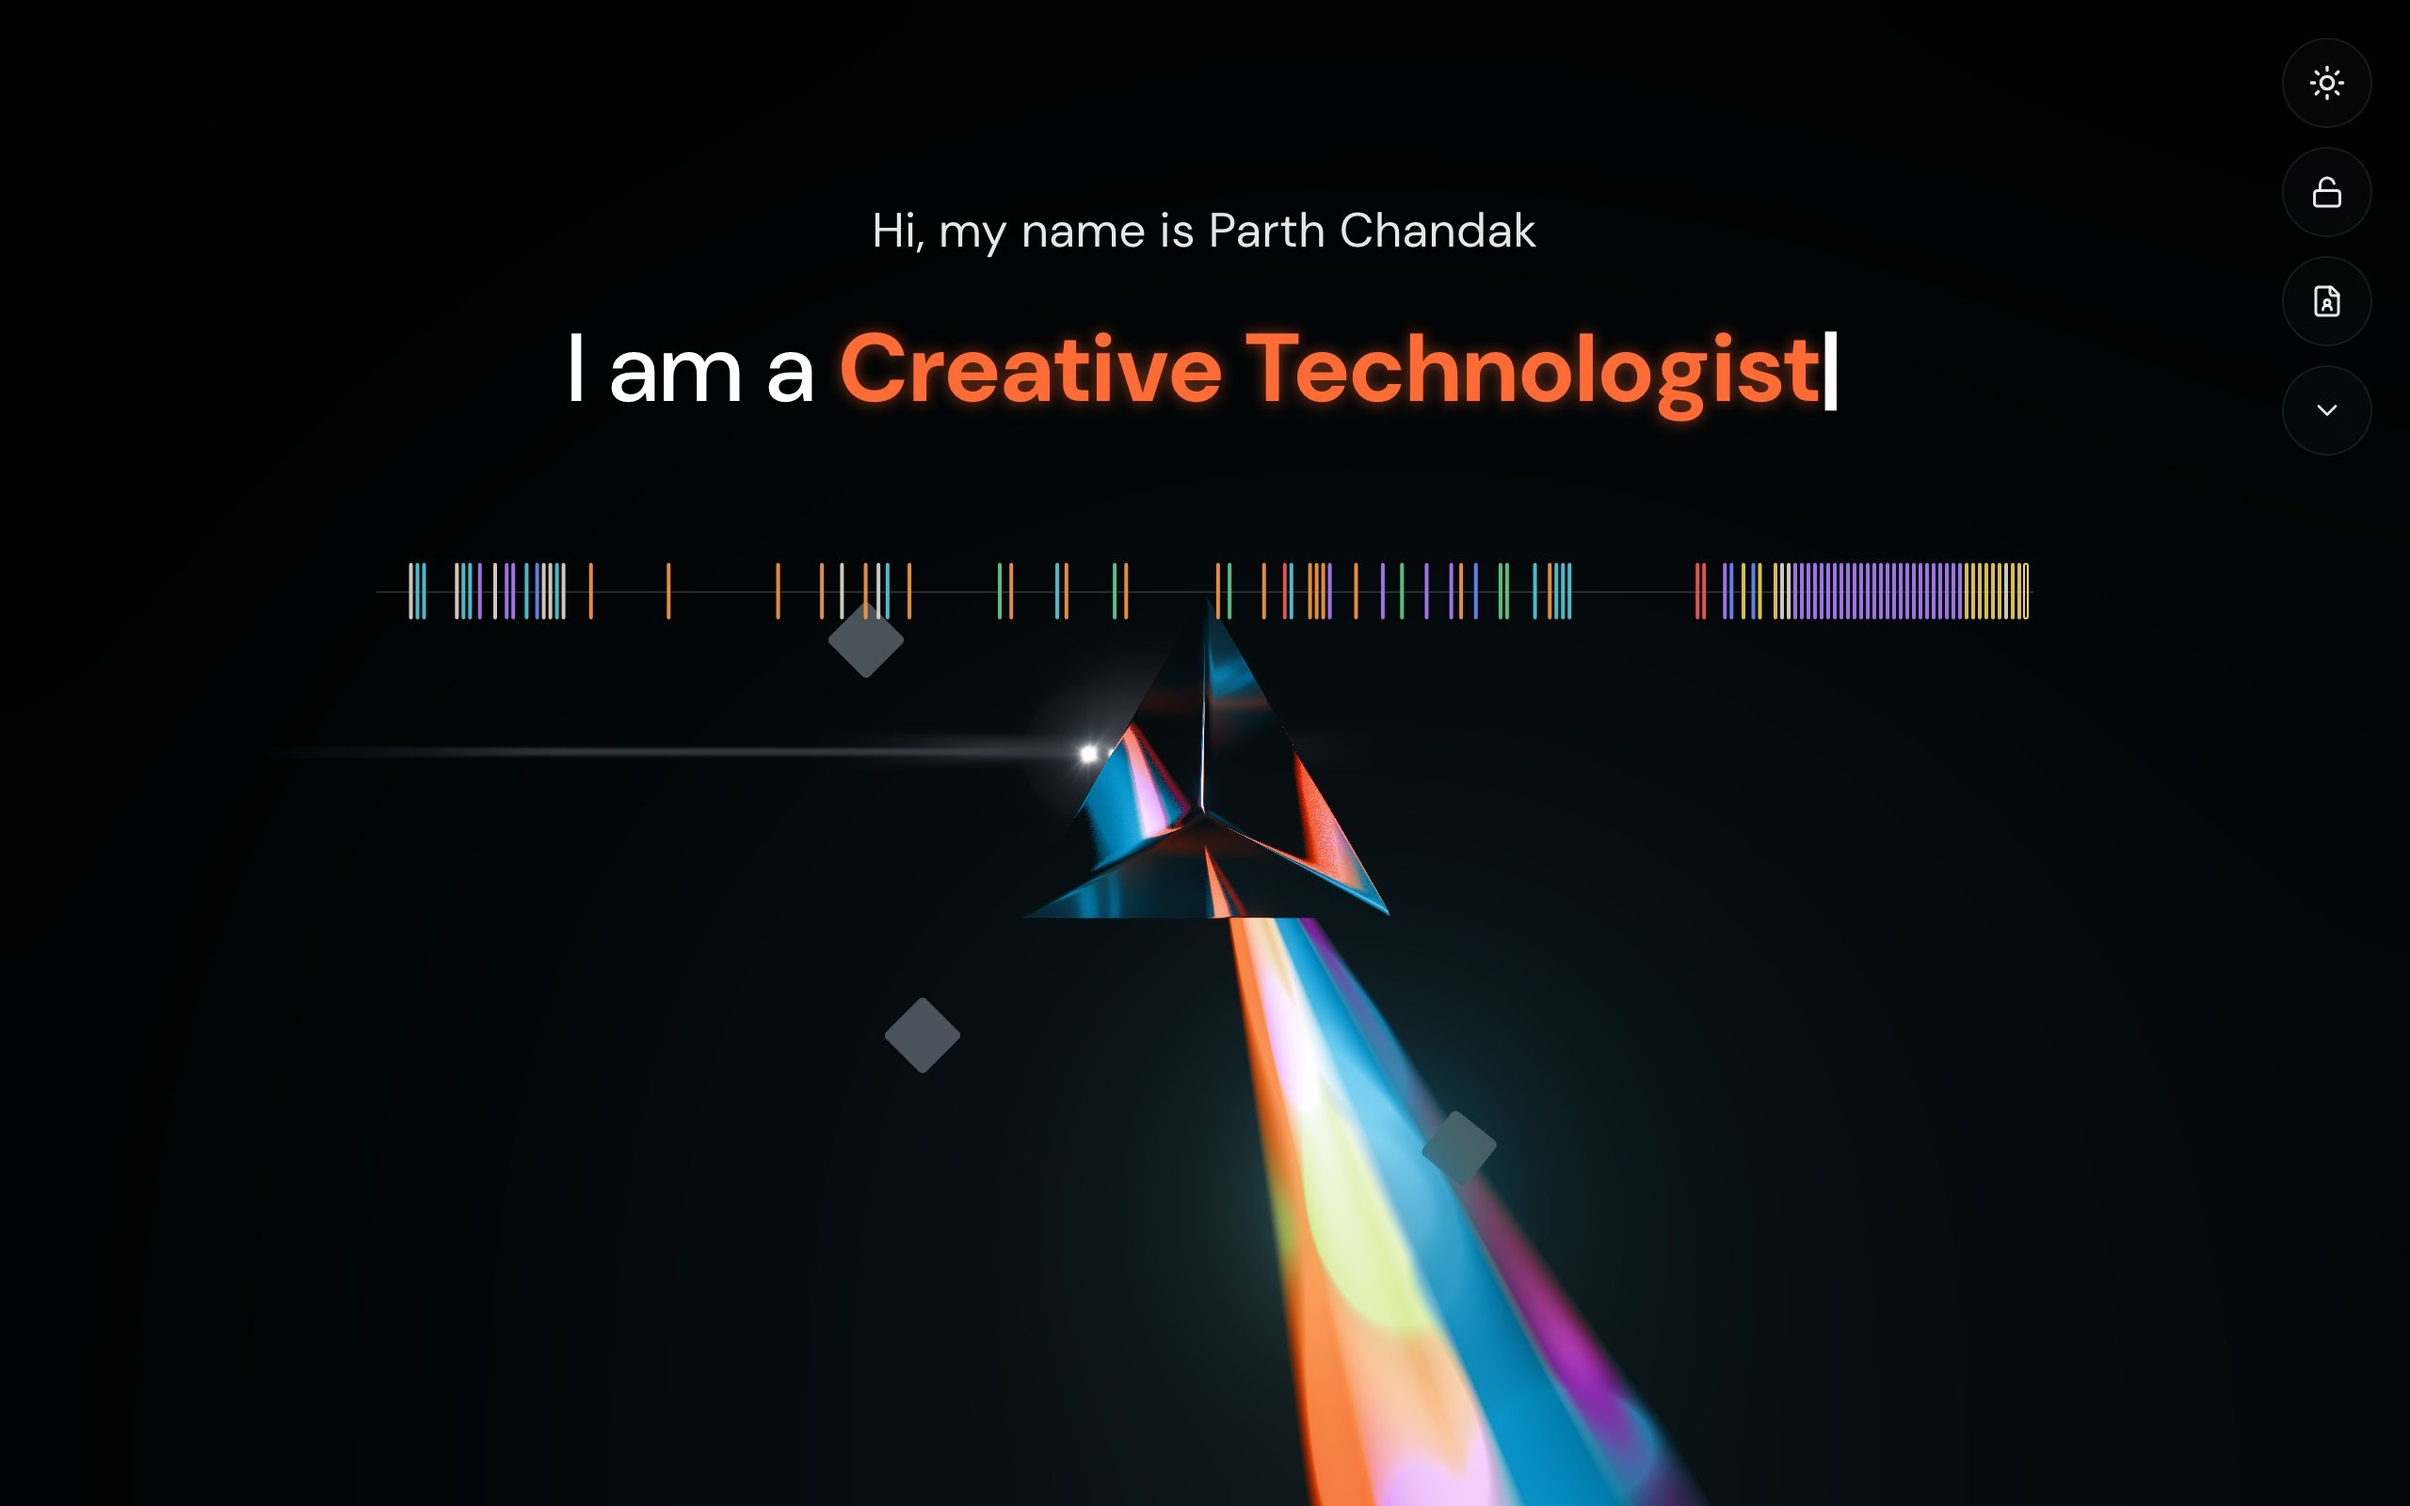
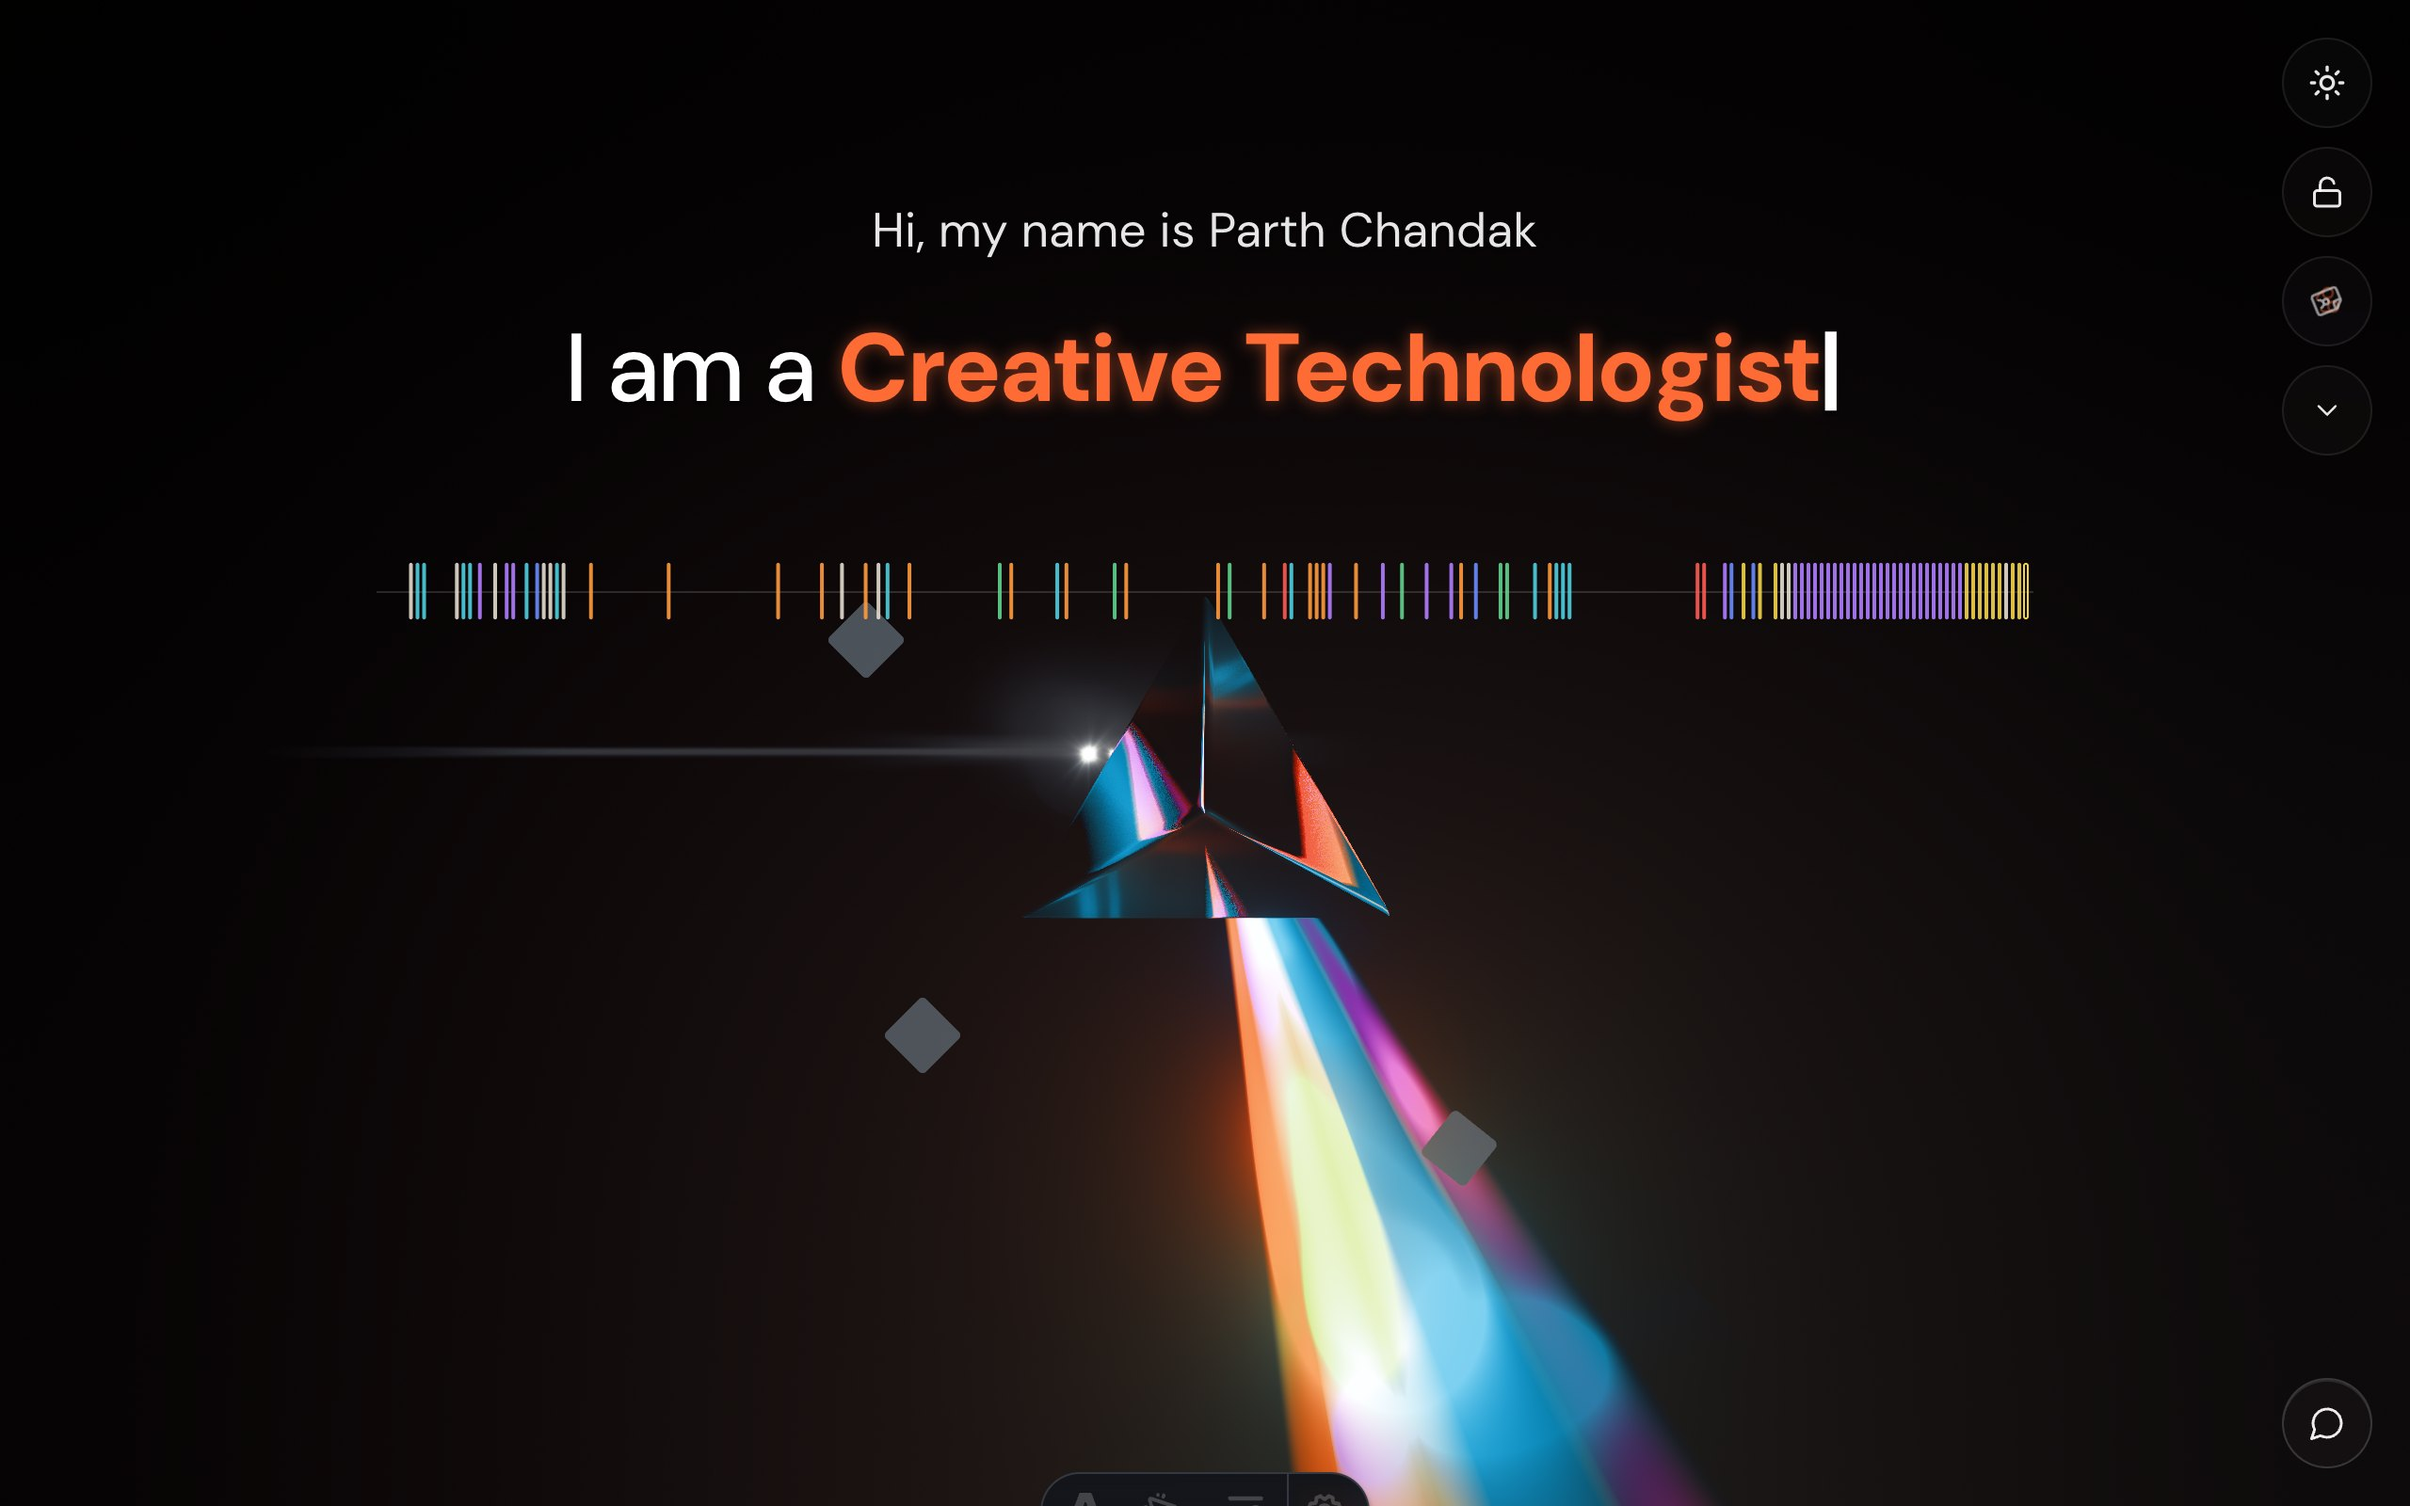
README shows the swarm, the spectral rainbow and the contact button [skip ci]
New captures of play mode, the record and the phone layout, plus the swarm in
flight, and notes on how the page and the 3D scene stay in step.

Changed region(s): [[0.4062, 0.4688, 0.7188, 1.0], [0.4062, 0.4375, 0.4375, 0.5], [0.9375, 0.1875, 0.9688, 0.2188]]

diff --git a/README.md b/README.md
@@ -11,6 +11,7 @@
 ![Astro](https://img.shields.io/badge/Astro-7-111111?style=flat-square&logo=astro&logoColor=white)
 ![React](https://img.shields.io/badge/React-19-111111?style=flat-square&logo=react&logoColor=white)
 ![Three.js](https://img.shields.io/badge/Three.js-React%20Three%20Fiber-ff9a3d?style=flat-square&logo=threedotjs&logoColor=white)
+![Motion](https://img.shields.io/badge/Motion-springs-111111?style=flat-square)
 ![Cloudflare Pages](https://img.shields.io/badge/hosted-Cloudflare%20Pages-111111?style=flat-square&logo=cloudflare&logoColor=white)
 ![Live](https://img.shields.io/badge/live-parthchandak.info-ff5a52?style=flat-square)
 ![License](https://img.shields.io/badge/license-MIT-555555?style=flat-square)
@@ -24,7 +25,7 @@
 
 <br><br>
 
-<a href="https://parthchandak.info"><img src="docs/assets/readme/hero.jpg" width="100%" alt="A glass prism on a black background splitting a white beam into an orange, blue and violet rainbow, under the typed lines 'Hi, my name is Parth Chandak' and 'I am a Creative Technologist', with a strip of coloured timeline ticks across the middle and four round buttons in the top-right corner"></a>
+<a href="https://parthchandak.info"><img src="docs/assets/readme/hero.jpg" width="100%" alt="A glass prism on a black background splitting a white beam into an orange, blue and violet rainbow, under the typed lines 'Hi, my name is Parth Chandak' and 'I am a Creative Technologist', with a strip of coloured timeline ticks across the middle, four round buttons in the top-right corner and a round contact button in the bottom-right corner"></a>
 
 <sub>Play mode on the live site, October 2026.</sub>
 
@@ -48,8 +49,9 @@ still behind them.
 **1 · The prism**
 
 A GLTF prism in a React Three Fiber scene. The beam's angle follows the pointer; where it
-meets the prism, refracted rays fan out into a rainbow, with a lens flare, plus bloom and a colour LUT from
-`@react-three/postprocessing`.
+meets the prism, it fans out into a rainbow drawn by a spectral shader. The colours are laid out partly by
+the refractive index of BK7 glass (Cauchy's equation), so blue and violet open wider, and the fan widens as
+the beam strikes more steeply. Bloom, a colour LUT and dithering come from `@react-three/postprocessing`.
 
 </td>
 <td width="33%" valign="top">
@@ -57,7 +59,8 @@ meets the prism, refracted rays fan out into a rainbow, with a lens flare, plus 
 **2 · The spectrograph**
 
 Every dated item is one tick on a timeline from 2015 to 2027. The years are warped so the busy
-recent ones get room. The chevron unfolds the strip into eight lanes, one per band.
+recent ones get room. The chevron unfolds the strip into eight lanes, one per band; folding them back
+sends the strip's colours flying into the chevron as light.
 
 </td>
 <td width="33%" valign="top">
@@ -71,11 +74,25 @@ Cards with a picture or video show as glass tiles, the rest as wide cards, newes
 </tr>
 </table>
 
+<div align="center">
+
+<img src="docs/assets/readme/swarm.jpg" width="720" alt="Glowing pills in the strip's colours, orange, cyan, violet and white, streaking up from the timeline strip toward the round chevron button on the right, drawn as light in the 3D scene">
+
+<sub>The fold: each colour lifts off the strip as light in the 3D scene and springs into the chevron.</sub>
+
+</div>
+
+**The light and the page move together.** The swarm is drawn inside the 3D scene, not on top of the
+page: the strip measures each pill in screen pixels and flies it on [Motion](https://motion.dev)
+springs, and the scene places it with the canvas's own box and the camera's zoom, so it lands exactly on
+the button on any screen. When it lands, the prism catches the light and a pulse runs out along the
+rainbow. Picking an item, or scrolling into a band of the record, lights that band's colour in the rainbow.
+
 ## The record
 
 <div align="center">
 
-<img src="docs/assets/readme/record.jpg" width="720" alt="The Research band: a sticky orange band bar at the top with ticks for each paper, above a three-column grid of glass tiles, each showing a journal name, a small line-drawn topic icon, a paper title and a year, with the rainbow beam glowing through the tiles">
+<img src="docs/assets/readme/record.jpg" width="720" alt="The Research band: a sticky orange band bar at the top with ticks for each paper, above a three-column grid of glass tiles, each showing a journal name, a small line-drawn topic icon, a paper title and a year, with the rainbow glowing through the tiles and the contact button in the bottom-right corner">
 
 <sub>The Research band, reached with <code>parthchandak.info/#research</code>.</sub>
 
@@ -96,7 +113,7 @@ The eight bands, each with its own colour on the strip and the bar:
 
 <div align="center">
 
-<img src="docs/assets/readme/mobile.jpg" width="32%" alt="The same play-mode screen on a phone: the typed greeting and role, the coloured strip drawn as dense full-width ticks, the prism and rainbow below, and the four round buttons stacked on the right">
+<img src="docs/assets/readme/mobile.jpg" width="32%" alt="The same play-mode screen on a phone: the typed greeting and role, the coloured strip drawn as dense full-width ticks, the prism and rainbow below, the four round buttons stacked on the right and the contact button in the bottom-right corner">
 
 <sub>Play mode on a phone-sized screen.</sub>
 
@@ -108,6 +125,8 @@ The eight bands, each with its own colour on the strip and the bar:
 - **Deep links per band.** `#experience`, `#research`, `#projects` and the rest open the record scrolled to that section.
 - **Light and dark.** A toggle swaps the theme for the scene and the glass UI together.
 - **Beam lock.** Hold the beam still so it stops chasing the pointer while you read.
+- **One contact button.** A glass button in the corner whose own glass springs open into the contact card (email, LinkedIn, GitHub, résumé, booking), and springs back.
+- **Respects reduced motion.** With reduced motion set, the opening, the swarm and the glow are skipped.
 - **Proof links.** Ticks with a public source (a DOI, a patent page, a live project) link straight to it.
 - **One data file per thing.** Cards live in `src/data/timelineData.js`, the Lab in `src/data/lab.js`, bands in `src/data/spectrum.js`.
 - **Readable before it loads.** Astro writes the whole record into the HTML from the same data files, so search engines and link previews see every card; the 3D scene loads after the text.
@@ -138,20 +157,22 @@ src/
   pages/index.astro         The page: head tags, and the record as plain HTML until the app loads
   App.jsx                   Play mode / record switch, deep links, theme
   components/
-    Canvas3D.jsx, Scene.jsx R3F canvas, post-processing, scene setup
+    Canvas3D.jsx, Scene.jsx R3F canvas, post-processing, scene setup, the prism's catch and pulse
     Beam.jsx, Prism.jsx,
-    Rainbow.jsx, Flare.jsx  The light beam, the GLTF prism, refraction and flare
+    Rainbow.jsx, Flare.jsx  The light beam, the GLTF prism, the spectral rainbow and flare
+    SwarmLight.jsx          The strip's swarm, drawn as light in the scene
     Spectrograph.jsx        The tick strip and its eight lanes
     BandBar.jsx             Sticky band bar in the record
     Timeline.jsx, TimelineCard.jsx, CardTile.jsx, LabShowcase.jsx
                             Cards, glass tiles and the Lab card
     UITypewriter.jsx        The greeting and cycling roles
-    ContactButton.jsx       The contact button and the card it frosts open
+    ContactButton.jsx       The contact button and the card its glass springs open into
   data/
     timelineData.js         Every card, by category
     spectrum.js             Band names, colours and dated items
     lab.js                  Public side projects
-  hooks/                    Mouse, light mode, scroll tracking
+  hooks/                    Mouse, light mode, scroll tracking; prismGlow.js and swarmLight.js
+                            connect the page to the scene
 public/
   gltf/                     prism.glb
   logos/, images/           Card logos and pictures
@@ -235,5 +256,5 @@ The build is a plain static folder, so Vercel or Netlify work too (build `npm ru
 <br>
 
 <div align="center">
-<sub>Built with Astro, React, Three.js, React Three Fiber and Lucide icons. Hosted on Cloudflare Pages.</sub>
+<sub>Built with Astro, React, Three.js, React Three Fiber, Motion and Lucide icons. Hosted on Cloudflare Pages.</sub>
 </div>
